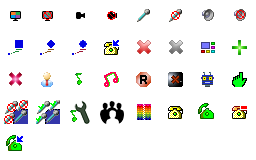
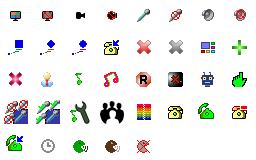
css sprites applied somewhere

diff --git a/openmcu-ru/files/resource/control.js b/openmcu-ru/files/resource/control.js
@@ -428,22 +428,28 @@ function member_read_by_id(id,index){
  return false;
 }
 
-function muteunmute(obj,mid,mask){
+function muteunmute(obj,mid,mask)
+{
   dmsg('Executing MUTE for member id '+mid);
   var cmd, mute=member_read_by_id(mid,3)&mask;
   if(!mute)cmd=OTFC_MUTE;else cmd=OTFC_UNMUTE;
-  obj.src='launched.gif';
+  if(obj)obj.className='launchspr';
   queue_otf_request(cmd,mid,mask);
   return false;
 }
 
-function vadoptions(obj,mid){
- var disv=member_read_by_id(mid,4);
- var cvan=member_read_by_id(mid,5);
- if(!(cvan|disv))var cmd=OTFC_VAD_CHOSEN_VAN; else if(cvan)var cmd=OTFC_VAD_DISABLE_VAD;else var cmd=OTFC_VAD_NORMAL;
- queue_otf_request(cmd,mid);
- obj.src='launched.gif';
- return false;
+function vadoptions(obj,mid)
+{
+  var
+    disv=member_read_by_id(mid,4),
+    cvan=member_read_by_id(mid,5),
+    cmd;
+  if(!(cvan|disv)) cmd=OTFC_VAD_CHOSEN_VAN;
+  else if(cvan) cmd=OTFC_VAD_DISABLE_VAD;
+  else cmd=OTFC_VAD_NORMAL;
+  if(obj) obj.className='launchspr';
+  queue_otf_request(cmd,mid);
+  return false;
 }
 
 function checking_failed(){
@@ -670,14 +676,14 @@ function rtp_state(id, bit, state)
         members[i][9]&=~bit;
       if(bit < 16)
       {
-        obj=object_return('mrpanb'+bit+'_',id);
+        obj=object_return('mrpan'+bit+'_',idid(id));
         if(obj)
           if(state) obj.style.borderStyle='none';
           else      obj.style.borderStyle='solid';
       }
       else if(bit&16)
       {
-        obj=object_return('srpan_',id);
+        obj=object_return('srpan_',idid(id));
         if(obj)
           if(state) obj.className='mutespr30';
           else      obj.className='vlevel';
@@ -780,6 +786,35 @@ function setogl(id, level)
 
 function idid(id){ if(id<0) return '_'+(-id); return ''+id; }
 
+function mute_button(member, st, bitN)
+{
+  var id=idid(member[1]);
+  return "<div"
+    + " id='mrpan" + bitN + "_" + id + "'"
+    + " style='border:1px red " + ((!st||member[9]&bitN)?"none":"solid") + ";'"
+    + " onmouseover='prvnt=1'"
+    + " onmouseout='prvnt=0'"
+    + " onclick='muteunmute(this," + member[1] + "," + bitN + ")'"
+    + " class='mutespr" + bitN + ((member[3]&1)?"0":"1") + "'"
+    + " title='" + ((member[3]&bitN)?"Unmute":"Mute") + "'"
+  + "></div>";
+}
+
+function vad_button(member)
+{
+  var cmd=10;
+  if(!(member[4]|member[5])) cmd=8;
+  else if(member[5]) cmd=9;
+  return "<div"
+    + " id='vrpan_" + idid(member[1]) + "'"
+    + " class='vadspr" + cmd + "'"
+    + " onmouseover='prvnt=1'"
+    + " onmouseout='prvnt=0'"
+    + " onclick='vadoptions(this," + member[1] + ")'"
+    + " title='" + ((cmd==8)?"VAD":"") + ((cmd==9)?"Chosen Van":"") + ((cmd==10)?"VAD disabled":"") + "'"
+  + "></div>";
+}
+
 function format_mmbr_button(m,st)
 {
   var sname='mmbr', id=idid(m[1]), memberName=''+m[2];
@@ -791,10 +826,9 @@ function format_mmbr_button(m,st)
 
   var ip=get_addr_url_without_param(memberName);
   var uname=get_addr_name(memberName);
-  var mute, vad, kick, hide, kdb, kdb2, mixer=m[7], cmd=10, mute2, mute4, mute8, mixerb, levelb, remove, invite;
+  var kick, hide, kdb, kdb2, mixer=m[7], mixerb, levelb, remove, invite;
 
   if(mixer==-1) mixer='va';
-  if(!(m[4]|m[5])) cmd=8; else if(m[5]) cmd=9;
   ip="<span style='color:"+((st==0)?"#576":"blue")+";font-size:10px'>"+ip+"</span>";
 
   var kdb_width=35, w=15, h=15, sp=5;
@@ -845,11 +879,13 @@ function format_mmbr_button(m,st)
   else if(ping_state == 2) ping_icon = "<img src='i16_status_red.png' title='"+ping_info+"' "+st_style+">";
   //
 
-  mute1  ="<div id='mrpanb1_"+id+"' style='border:1px red "+((!st||m[9]&1)?"none":"solid")+";'><div "+b1style+" onmouseover='prvnt=1' onmouseout='prvnt=0' onclick='muteunmute(this,"+m[1]+",1)' class='mutespr3"+((m[3]&1)?"0":"1")+"' title='"+((m[3]&1)?"Unmute":"Mute")+"' id='mrpan_" +id+"'></div></div>";
-  mute2  ="<div id='mrpanb2_"+id+"' style='border:1px red "+((!st||m[9]&2)?"none":"solid")+";'><div "+b1style+" onmouseover='prvnt=1' onmouseout='prvnt=0' onclick='muteunmute(this,"+m[1]+",2)' class='mutespr4"+((m[3]&2)?"0":"1")+"' title='"+((m[3]&2)?"Unmute":"Mute")+"' id='mrpan2_"+id+"'></div></div>";
-  mute4  ="<div id='mrpanb4_"+id+"' style='border:1px red "+((!st||m[9]&4)?"none":"solid")+";'><div "+b1style+" onmouseover='prvnt=1' onmouseout='prvnt=0' onclick='muteunmute(this,"+m[1]+",4)' class='mutespr2"+((m[3]&4)?"0":"1")+"' title='"+((m[3]&4)?"Unmute":"Mute")+"' id='mrpan4_"+id+"'></div></div>";
-  mute8  ="<div id='mrpanb8_"+id+"' style='border:1px red "+((!st||m[9]&8)?"none":"solid")+";'><div "+b1style+" onmouseover='prvnt=1' onmouseout='prvnt=0' onclick='muteunmute(this,"+m[1]+",8)' class='mutespr1"+((m[3]&8)?"0":"1")+"' title='"+((m[3]&8)?"Unmute":"Mute")+"' id='mrpan8_"+id+"'></div></div>";
-  vad    ="<img "+b1style+" src='vad_"+((cmd==8)?"vad":"")+((cmd==9)?"chosenvan":"")+((cmd==10)?"disable":"")+".gif' onclick='vadoptions(this,"+m[1]+")' alt='"+((cmd==8)?"Normal":"")+((cmd==9)?"Van":"")+((cmd==10)?"AD disabled":"")+"' id='vrpan_"+id+"'>";
+  var prCode = " onmouseover='prvnt=1' onmouseout='prvnt=0'";
+
+  var mute1=mute_button(m, st, 1);
+  var mute2=mute_button(m, st, 2);
+  var mute4=mute_button(m, st, 4);
+  var mute8=mute_button(m, st, 8);
+  var vad=vad_button(m);
   kick   ="<img "+b1style+" src='i16_close_red.png' onclick='kick_confirm(this,"+m[1]+",\""+encodeURIComponent(m[2])+"\");' onmouseover='prvnt=1' onmouseout='prvnt=0' alt='Drop'>";
   hide   ="<img "+b1style+" src='i15_getNoVideo.gif' title='Remove from video mixers' onclick='if(checkcontrol())queue_otf_request("+OTFC_REMOVE_FROM_VIDEOMIXERS+","+m[1]+")'>";
   kdb    ="<div "+b2style+" id='agl_"+id+"' class='kdb' onmouseover='prvnt=1' onmouseout='prvnt=0' onclick='javascript:{gain_selector(this,"+m[1]+"  );return false;}'>"+nice_db(m[10])+"</div>";
@@ -1020,8 +1056,8 @@ function additional_panel(){
   var bwidth = 28;
   var dbutton="<div class='btn btn-small' style='border-width:1px;border-radius:0px;padding:2px 0px 2px 0px;height:"+(height+1)+"px;line-height:"+(height+1)+"px;text-align:center;cursor:pointer;";
   var s="<form onsubmit='return false' id='additional_panel' style='display:block;width:"+panel_width+"px;height:22px;padding:0px 0px 4px 0px;border-bottom:1px solid #E6E6FA;margin:0px'>"
-   +dpre+ "2px;'>"+dbutton+"width:"+bwidth+"px' onclick='queue_otf_request("+OTFC_MUTE_ALL+")' title='"+window.l_room_mute_all+"'><div class='mutespr30' style='margin-left:7px'></div></div></div>"
-   +dpre+"34px;'>"+dbutton+"width:"+bwidth+"px' onclick='queue_otf_request("+OTFC_UNMUTE_ALL+")' title='"+window.l_room_unmute_all+"'><div class='mutespr31' style='margin-left:7px'></div></div></div>"
+   +dpre+ "2px;'>"+dbutton+"width:"+bwidth+"px' onclick='queue_otf_request("+OTFC_MUTE_ALL+")' title='"+window.l_room_mute_all+"'><div class='mutespr10' style='margin-left:7px'></div></div></div>"
+   +dpre+"34px;'>"+dbutton+"width:"+bwidth+"px' onclick='queue_otf_request("+OTFC_UNMUTE_ALL+")' title='"+window.l_room_unmute_all+"'><div class='mutespr11' style='margin-left:7px'></div></div></div>"
    +dpre+"66px;'>"+dbutton+"width:"+bwidth+"px' onclick='invite_all(this)' title='"+window.l_room_invite_all_inactive_members+"'><div class='adspr00' style='margin-left:6px'></div></div></div>"
    +dpre+"98px;'>"+dbutton+"width:"+bwidth+"px' onclick='invite_all(this,1)' title='"+window.l_room_dial_all_members+"'><div class='adspr01' style='margin-left:6px'></div></div></div>"
    +dpre+"130px;'>"+dbutton+"width:"+bwidth+"px' onclick='remove_all0(this)' title='"+window.l_room_remove_all_inactive_members+"'><div class='xsgray' style='margin-left:7px'></div></div></div>"
@@ -1265,6 +1301,8 @@ function audio(id,vol)
     } catch(e) { return alive(); }
 
     var v16=Math.floor(vol/1928), htmlCode;
+    var v17=0,vol0=vol; while(vol0>0){vol0=vol0>>1;v17++;}
+    v16=Math.floor((v16+v17)/2+1);
     if(v16==0) htmlCode='';
     else htmlCode="<div style='position:relative;top:" + (16-v16) + "px' class='audl" + v16 + "'></div>";
     try { o2.innerHTML=htmlCode; } catch(e) {}
@@ -1397,55 +1435,95 @@ function object_return(o,id){
   return o;
 }
 
-function imute(id,mask){
+function set_mute_sprite(bitMask,id,value)
+{
+  var o=document.getElementById('mrpan'+bitMask+'_'+idid(id));
+  if(!o) return;
+  if(value)
+  {
+    o.className='mutespr'+bitMask+'0';
+    o.title='Unmute';
+  }
+  else
+  {
+    o.className='mutespr'+bitMask+'1';
+    o.title='Mute';
+  }
+}
+
+function imute(id,mask)
+{
+  for(var i=0;i<members.length;i++)
+    if(members[i][1]==id)
+    {
+      members[i][3]|=mask;
+      for(var bit=1;bit<32;bit=bit<<1)
+        if(mask&bit) set_mute_sprite(bit,id,bit);
+    }
+  alive();
+}
+
+function imute_all(v,mask0)
+{
+  var mask=1; if(typeof mask0!='undefined') mask=mask0;
+  var cl='mutespr' + mask + (v?'0':'1');
+  for(var i=0;i<members.length;i++)
+  {
+    if(v)
+    {
+      members[i][3]|=mask;
+      set_mute_sprite(mask,members[i][1],mask);
+    }
+    else
+    {
+      members[i][3]&=(~mask);
+      set_mute_sprite(mask,members[i][1],0);
+    }
+  }
+  return alive();
+}
+
+function iunmute(id,mask)
+{
+  for(var i=0;i<members.length;i++)
+    if(members[i][1]==id)
+    {
+      members[i][3]&=(~mask);
+      for(var bit=1;bit<32;bit=bit<<1)
+        if(mask&bit) set_mute_sprite(bit,id,0);
+    }
+  alive();
+}
+
+function ivad(id,v)
+{
+  dmsg('VAD switch for id '+id+', value '+v);
   for(var i=0;i<members.length;i++)
   if(members[i][1]==id)
-  { members[i][3]|=mask;
-    if(mask&1) if((o=object_return('mrpan_' ,id))!==false) { o.className='mutespr30'; o.title='Unmute'; }
-    if(mask&2) if((o=object_return('mrpan2_',id))!==false) { o.className='mutespr40'; o.title='Unmute'; }
-    if(mask&4) if((o=object_return('mrpan4_',id))!==false) { o.className='mutespr20'; o.title='Unmute'; }
-    if(mask&8) if((o=object_return('mrpan8_',id))!==false) { o.className='mutespr10'; o.title='Unmute'; }
+  {
+    var o = document.getElementById('vrpan_'+idid(id));
+    if(o) o.className='vadspr'+(v+8);
+    if(v==2) //disable vad
+    {
+      members[i][4]=1;
+      members[i][5]=0;
+      if(o) o.title='VAD disabled';
+    }
+    else if(v==1)
+    {
+      members[i][4]=0;
+      members[i][5]=1;
+      if(o) o.title='Chosen Van';
+    }
+    else
+    {
+      members[i][4]=0;
+      members[i][5]=0;
+      if(o) o.title='VAD';
+    }
     break;
   }
-  return alive();
-}
-
-function imute_all(v)
-{ var cl='mutespr30'; if(!v) cl='mutespr31';
-  for(var i=0;i<members.length;i++)
-  if(members[i][0])
-  { if(v)members[i][3]|=1; else members[i][3]&=14;
-    if((o=object_return('mrpan_',members[i][1]))===false) continue;
-    o.className=cl;
-    if(v)o.title='Unmute'; else o.title='Mute';
-  }
-  return alive();
-}
-
-function iunmute(id,mask){
-  for(var i=0;i<members.length;i++)
-  if(members[i][1]==id)
-  { members[i][3]&=(15-mask);
-    if(mask&1) if((o=object_return('mrpan_' ,id))!==false) { o.className='mutespr31'; o.title='Mute'; }
-    if(mask&2) if((o=object_return('mrpan2_',id))!==false) { o.className='mutespr41'; o.title='Mute'; }
-    if(mask&4) if((o=object_return('mrpan4_',id))!==false) { o.className='mutespr21'; o.title='Mute'; }
-    if(mask&8) if((o=object_return('mrpan8_',id))!==false) { o.className='mutespr11'; o.title='Mute'; }
-    break;
-  }
-  return alive();
-}
-
-function ivad(id,v){
-  dmsg('Executing VAD switch for member id '+id+': new VAD value is '+v);
-  for(var i=0;i<members.length;i++) if(members[i][1]==id){
-    var src='vad_vad.gif';
-    if(v==2){members[i][4]=1;members[i][5]=0;src='vad_disable.gif';}
-    else if(v==1){members[i][4]=0;members[i][5]=1;src='vad_chosenvan.gif';}
-    else {members[i][4]=0;members[i][5]=0;}
-    if((o=object_return('vrpan_',id))===false) return alive();
-    o.src=src;
-    return alive();
-  }
+  alive();
 }
 
 function button_control()

diff --git a/openmcu-ru/files/resource/main.css b/openmcu-ru/files/resource/main.css
@@ -356,14 +356,14 @@ button.btn.btn-mini,input[type="submit"].btn.btn-mini{*padding-top:1px;*padding-
 .kdb0{background-color:#fff;border-bottom:1px solid #777;border-right:1px solid #777;}
 .kdbs{background-color:#009;color:#fff;border-bottom:1px dotted #ccc;border-right:1px dotted #ccc;cursor:default}
 
-.mutespr11{width:15px;height:15px;background:url(s15_ch.png)    0px   0px;cursor:pointer}
-.mutespr10{width:15px;height:15px;background:url(s15_ch.png)  -15px   0px;cursor:pointer}
-.mutespr21{width:15px;height:15px;background:url(s15_ch.png)  -30px   0px;cursor:pointer}
-.mutespr20{width:15px;height:15px;background:url(s15_ch.png)  -45px   0px;cursor:pointer}
-.mutespr31{width:15px;height:15px;background:url(s15_ch.png)  -60px   0px;cursor:pointer}
-.mutespr30{width:15px;height:15px;background:url(s15_ch.png)  -75px   0px;cursor:pointer}
-.mutespr41{width:15px;height:15px;background:url(s15_ch.png)  -90px   0px;cursor:pointer}
-.mutespr40{width:15px;height:15px;background:url(s15_ch.png) -105px   0px;cursor:pointer}
+.mutespr11{width:15px;height:15px;background:url(s15_ch.png)  -60px   0px;cursor:pointer}
+.mutespr10{width:15px;height:15px;background:url(s15_ch.png)  -75px   0px;cursor:pointer}
+.mutespr21{width:15px;height:15px;background:url(s15_ch.png)  -90px   0px;cursor:pointer}
+.mutespr20{width:15px;height:15px;background:url(s15_ch.png) -105px   0px;cursor:pointer}
+.mutespr41{width:15px;height:15px;background:url(s15_ch.png)  -30px   0px;cursor:pointer}
+.mutespr40{width:15px;height:15px;background:url(s15_ch.png)  -45px   0px;cursor:pointer}
+.mutespr81{width:15px;height:15px;background:url(s15_ch.png)    0px   0px;cursor:pointer}
+.mutespr80{width:15px;height:15px;background:url(s15_ch.png)  -15px   0px;cursor:pointer}
 .lgalspr  {width:18px;height:17px;background:url(s15_ch.png)  -90px -15px;cursor:pointer;border:1px solid #000;vertical-align:middle;margin:0px;background-color:#fff}
 .humanspr {width:24px;height:24px;background:url(s32_ch.png) -229px -69px;cursor:pointer;border:2px solid #0f0;vertical-align:middle;margin:2px;background-color:#0ff;border-radius:3px;overflow:hidden}
 .robotspr {width:24px;height:24px;background:url(s32_ch.png) -197px -69px;cursor:pointer;border:2px solid #007;vertical-align:middle;margin:2px;background-color:#ccf;border-radius:3px;overflow:hidden}
@@ -424,3 +424,9 @@ button.btn.btn-mini,input[type="submit"].btn.btn-mini{*padding-top:1px;*padding-
 .audl14   {width:16px;height:14px;background:url(s32_ch.png) -137px -108px}
 .audl15   {width:16px;height:15px;background:url(s32_ch.png) -137px -107px}
 .audl16   {width:16px;height:16px;background:url(s32_ch.png) -137px -106px}
+
+.launchspr{width:15px;height:15px;background:url(s32_ch.png)  -40px -138px}
+
+.vadspr8  {width:15px;height:15px;background:url(s32_ch.png)  -73px -138px;cursor:pointer}
+.vadspr9  {width:15px;height:15px;background:url(s32_ch.png) -105px -138px;cursor:pointer}
+.vadspr10 {width:15px;height:15px;background:url(s32_ch.png) -137px -138px;cursor:pointer}
